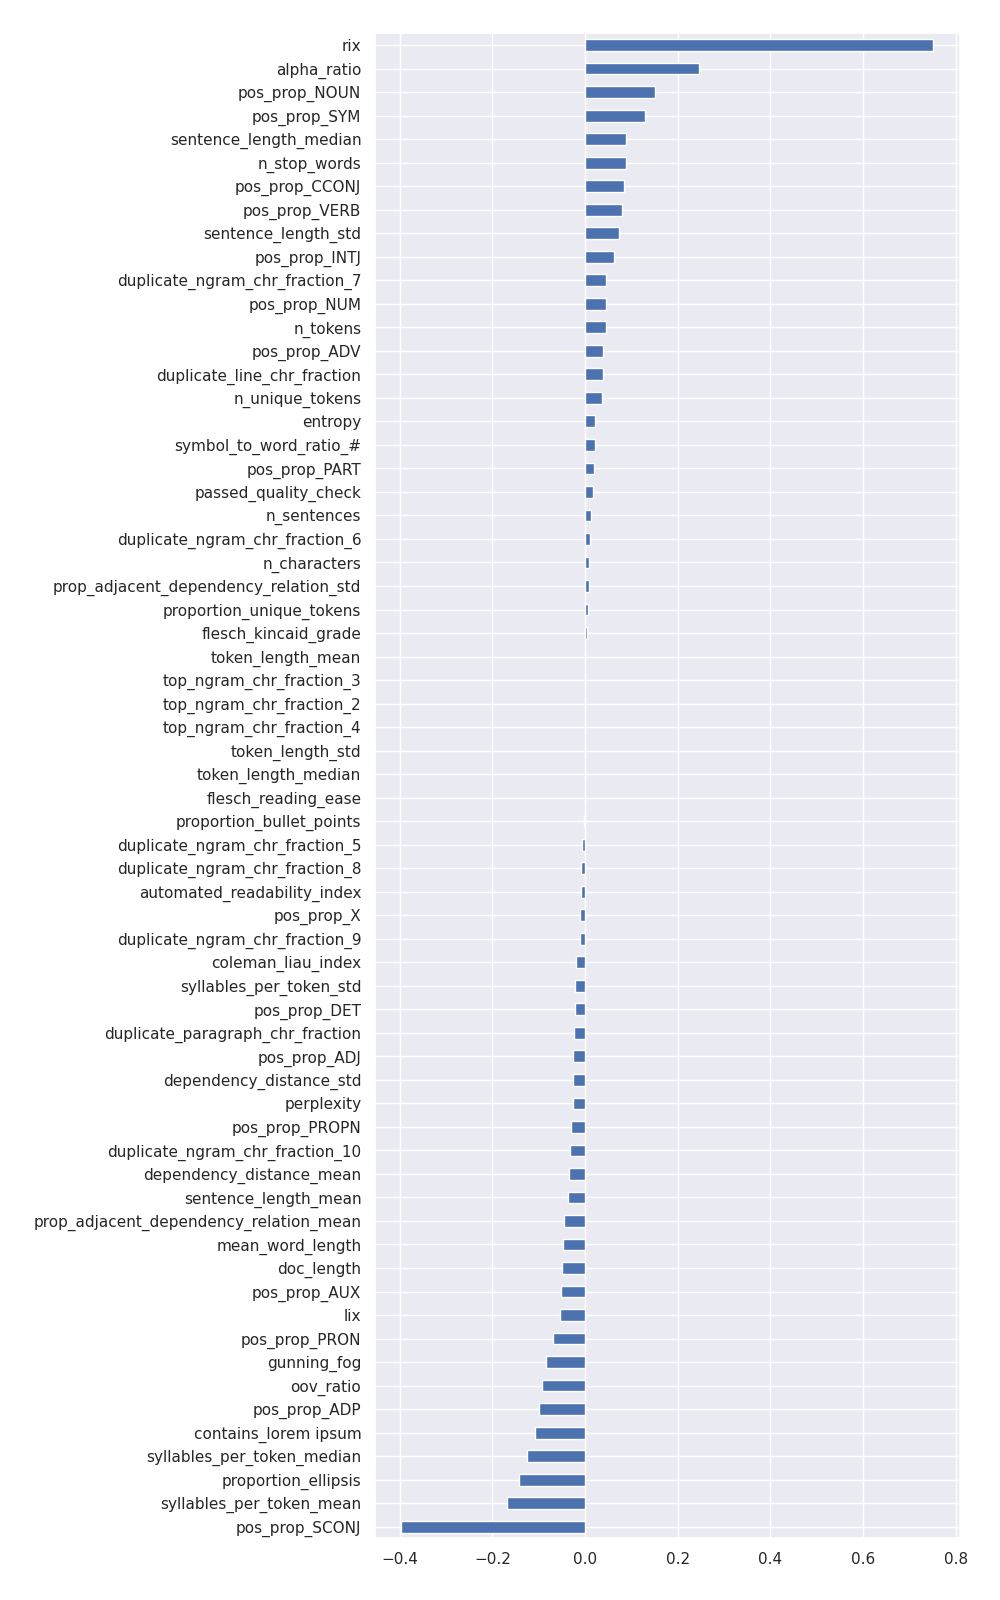
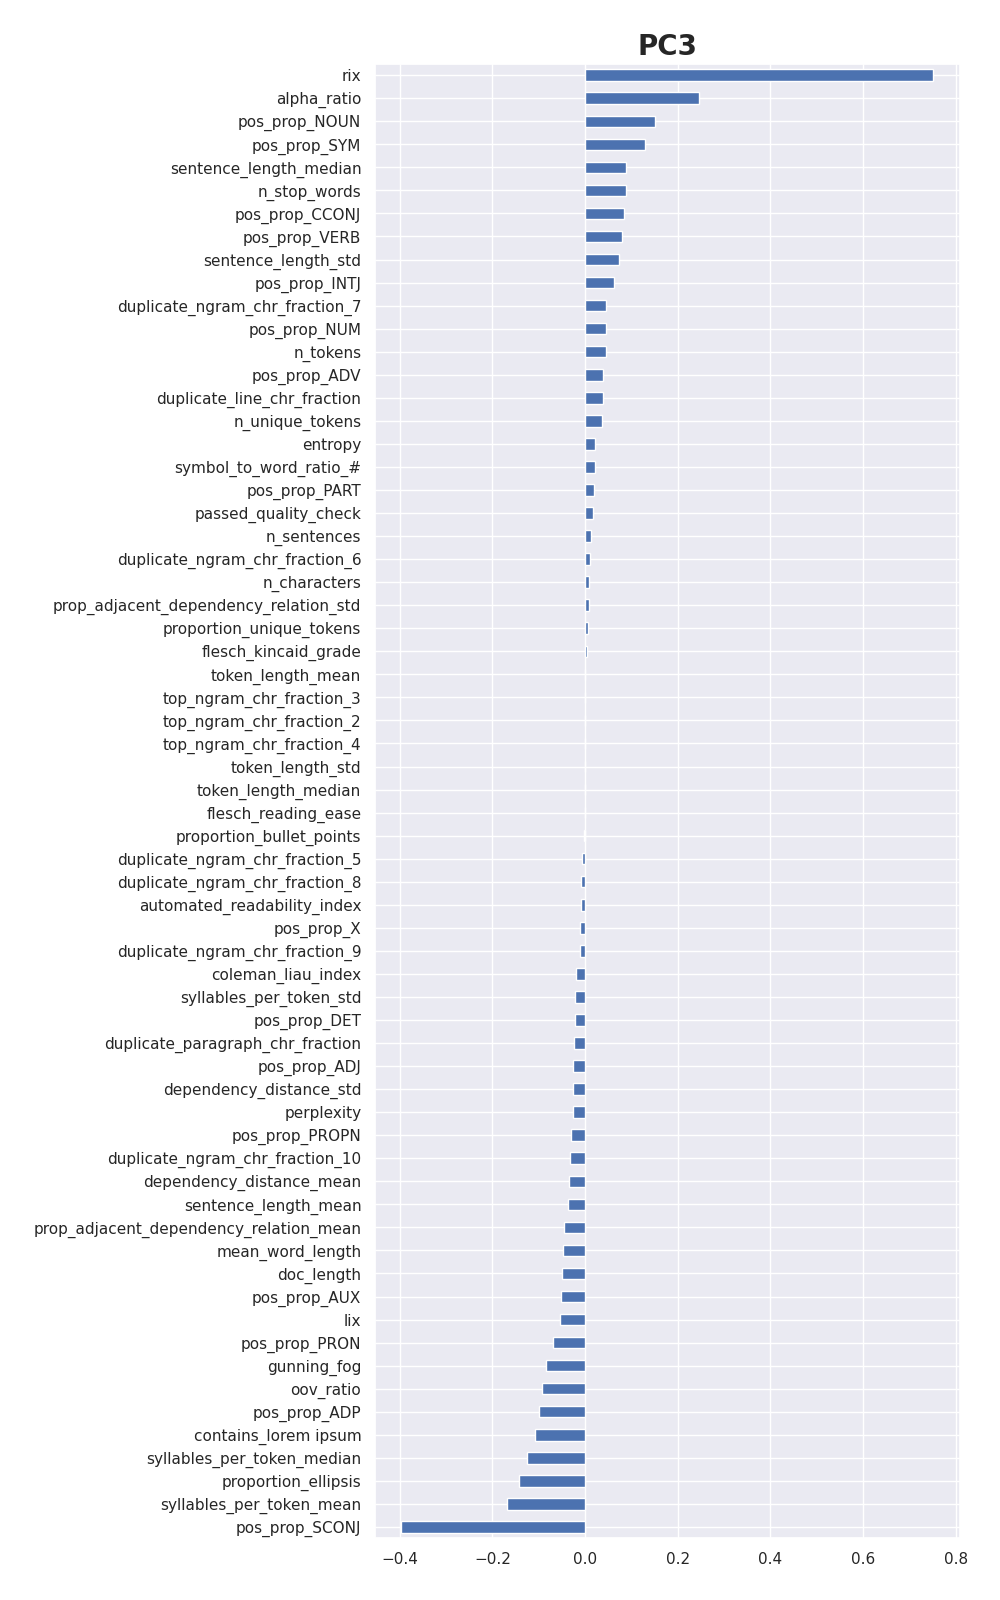
feat: plot loadings for all PC components, add title

Changed region(s): [[0.031, 0.0312, 0.372, 0.9688], [0.589, 0.0, 0.93, 0.2188], [0.527, 0.5625, 0.589, 0.9375]]

diff --git a/src/utils/pca_plots.py b/src/utils/pca_plots.py
@@ -33,6 +33,9 @@ def plot_loadings(loadings, component:str="PC1", save_dir=None):
 
     sns.set_theme(rc={'figure.figsize':(10, 16)})
     loadings[component].sort_values().plot.barh()
+    
+    # make title bold and bigger
+    plt.title(component, fontsize=20, fontweight='bold')
 
     # add more whitespace
     plt.tight_layout(pad=2)
